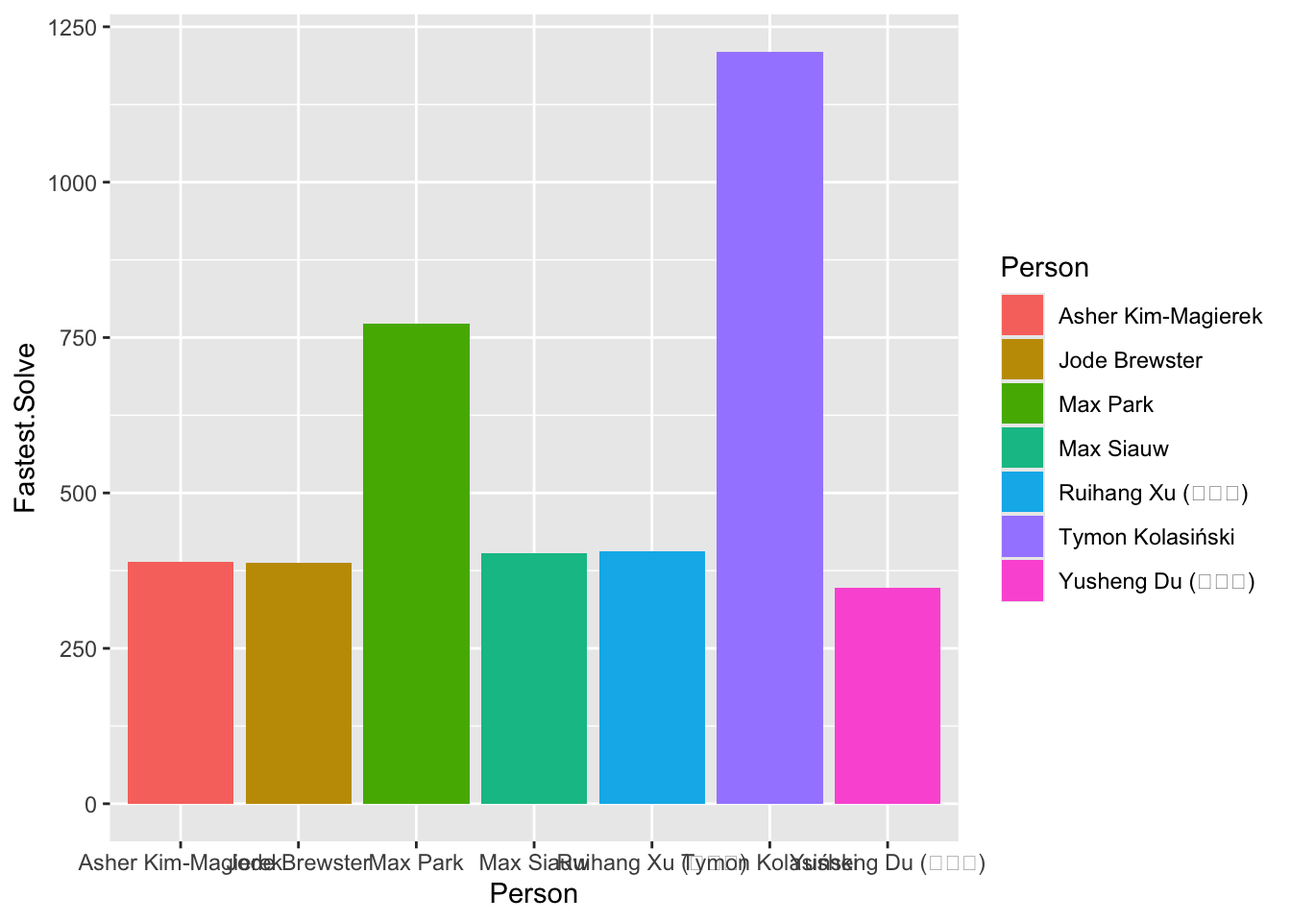
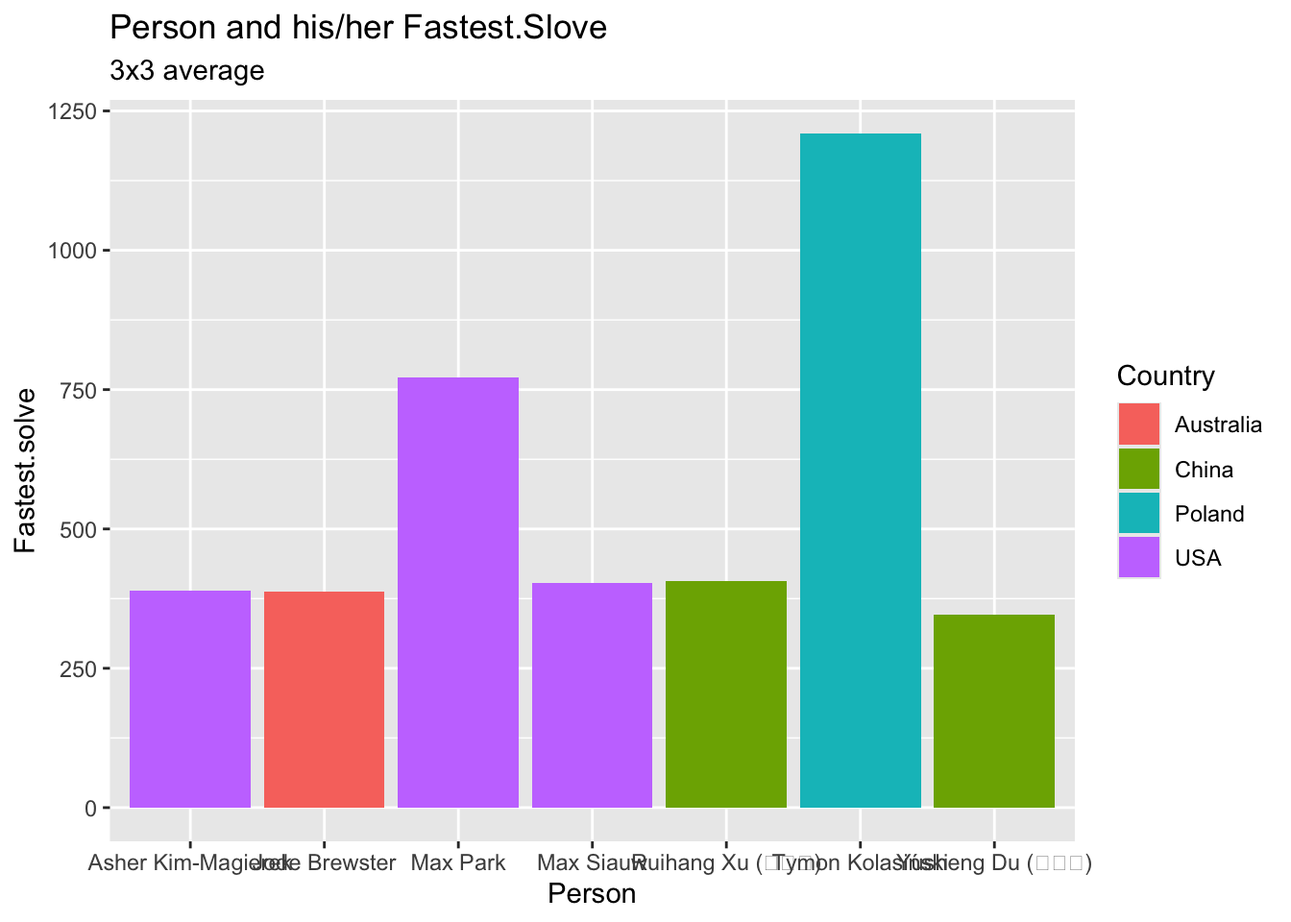
Built site for gh-pages

diff --git a/analysis.html b/analysis.html
@@ -186,13 +186,274 @@ pre > code.sourceCode > span > a:first-child::before { text-decoration: underlin
 <div class="sourceCode cell-code" id="cb4"><pre class="sourceCode r code-with-copy"><code class="sourceCode r"><span id="cb4-1"><a href="#cb4-1" aria-hidden="true" tabindex="-1"></a>data2 <span class="ot">&lt;-</span> <span class="fu">head</span>(data, <span class="at">n =</span> <span class="dv">10</span>)</span>
 <span id="cb4-2"><a href="#cb4-2" aria-hidden="true" tabindex="-1"></a></span>
 <span id="cb4-3"><a href="#cb4-3" aria-hidden="true" tabindex="-1"></a></span>
-<span id="cb4-4"><a href="#cb4-4" aria-hidden="true" tabindex="-1"></a>graphic1 <span class="ot">&lt;-</span> <span class="fu">ggplot</span>(data2, <span class="at">mapping =</span> <span class="fu">aes</span>(<span class="at">x=</span>Person,<span class="at">y=</span>Fastest.Solve,<span class="at">fill=</span>Person)) <span class="sc">+</span></span>
+<span id="cb4-4"><a href="#cb4-4" aria-hidden="true" tabindex="-1"></a>graphic1 <span class="ot">&lt;-</span> <span class="fu">ggplot</span>(data2, <span class="at">mapping =</span> <span class="fu">aes</span>(<span class="at">x=</span>Person,<span class="at">y=</span>Fastest.Solve ,<span class="at">fill=</span>Country)) <span class="sc">+</span></span>
 <span id="cb4-5"><a href="#cb4-5" aria-hidden="true" tabindex="-1"></a>  <span class="fu">geom_col</span>()</span>
-<span id="cb4-6"><a href="#cb4-6" aria-hidden="true" tabindex="-1"></a>graphic1</span></code><button title="Copy to Clipboard" class="code-copy-button"><i class="bi"></i></button></pre></div>
+<span id="cb4-6"><a href="#cb4-6" aria-hidden="true" tabindex="-1"></a>graphic1<span class="sc">+</span></span>
+<span id="cb4-7"><a href="#cb4-7" aria-hidden="true" tabindex="-1"></a>  <span class="fu">labs</span>(<span class="at">title=</span><span class="st">"Person and his/her Fastest.Slove"</span>,</span>
+<span id="cb4-8"><a href="#cb4-8" aria-hidden="true" tabindex="-1"></a>       <span class="at">subtitle=</span><span class="st">"3x3 average"</span>,</span>
+<span id="cb4-9"><a href="#cb4-9" aria-hidden="true" tabindex="-1"></a>       <span class="at">x=</span><span class="st">"Person"</span>,</span>
+<span id="cb4-10"><a href="#cb4-10" aria-hidden="true" tabindex="-1"></a>       <span class="at">y=</span><span class="st">"Fastest.solve"</span></span>
+<span id="cb4-11"><a href="#cb4-11" aria-hidden="true" tabindex="-1"></a>       )</span></code><button title="Copy to Clipboard" class="code-copy-button"><i class="bi"></i></button></pre></div>
 <div class="cell-output-display">
 <div>
 <figure class="figure">
 <p><img src="analysis_files/figure-html/graphic1-1.png" class="img-fluid figure-img" width="672"></p>
+</figure>
+</div>
+</div>
+</div>
+<div class="cell">
+<div class="sourceCode cell-code" id="cb5"><pre class="sourceCode r code-with-copy"><code class="sourceCode r"><span id="cb5-1"><a href="#cb5-1" aria-hidden="true" tabindex="-1"></a>data3 <span class="ot">&lt;-</span> data <span class="sc">%&gt;%</span></span>
+<span id="cb5-2"><a href="#cb5-2" aria-hidden="true" tabindex="-1"></a>  <span class="fu">filter</span>(Country <span class="sc">==</span> <span class="fu">c</span>(<span class="st">"USA"</span>,<span class="st">"Canada"</span>))</span>
+<span id="cb5-3"><a href="#cb5-3" aria-hidden="true" tabindex="-1"></a></span>
+<span id="cb5-4"><a href="#cb5-4" aria-hidden="true" tabindex="-1"></a></span>
+<span id="cb5-5"><a href="#cb5-5" aria-hidden="true" tabindex="-1"></a>graphic2 <span class="ot">&lt;-</span> <span class="fu">ggplot</span>(data3,<span class="at">mapping =</span> <span class="fu">aes</span>(<span class="at">x=</span>Fastest.Solve,<span class="at">color =</span> Country, <span class="at">fill =</span> Country)) <span class="sc">+</span></span>
+<span id="cb5-6"><a href="#cb5-6" aria-hidden="true" tabindex="-1"></a>  <span class="fu">geom_density</span>(<span class="at">linewidth =</span> <span class="fl">0.75</span>, <span class="at">alpha =</span> <span class="fl">0.007</span>)</span>
+<span id="cb5-7"><a href="#cb5-7" aria-hidden="true" tabindex="-1"></a></span>
+<span id="cb5-8"><a href="#cb5-8" aria-hidden="true" tabindex="-1"></a>graphic2<span class="sc">+</span></span>
+<span id="cb5-9"><a href="#cb5-9" aria-hidden="true" tabindex="-1"></a> <span class="fu">labs</span>(<span class="at">title=</span><span class="st">"North America"</span>,</span>
+<span id="cb5-10"><a href="#cb5-10" aria-hidden="true" tabindex="-1"></a>       <span class="at">subtitle=</span><span class="st">"3x3 average"</span>,</span>
+<span id="cb5-11"><a href="#cb5-11" aria-hidden="true" tabindex="-1"></a>       <span class="at">x=</span><span class="st">"Fastest Solve"</span>,</span>
+<span id="cb5-12"><a href="#cb5-12" aria-hidden="true" tabindex="-1"></a>       <span class="at">y=</span><span class="st">"Frequency"</span>,</span>
+<span id="cb5-13"><a href="#cb5-13" aria-hidden="true" tabindex="-1"></a>      <span class="at">caption =</span> <span class="st">"Countries with less than 2 observations not included."</span></span>
+<span id="cb5-14"><a href="#cb5-14" aria-hidden="true" tabindex="-1"></a>       )</span></code><button title="Copy to Clipboard" class="code-copy-button"><i class="bi"></i></button></pre></div>
+<div class="cell-output-display">
+<div>
+<figure class="figure">
+<p><img src="analysis_files/figure-html/graphic2-1.png" class="img-fluid figure-img" width="672"></p>
+</figure>
+</div>
+</div>
+</div>
+<div class="cell">
+<div class="sourceCode cell-code" id="cb6"><pre class="sourceCode r code-with-copy"><code class="sourceCode r"><span id="cb6-1"><a href="#cb6-1" aria-hidden="true" tabindex="-1"></a>data4 <span class="ot">&lt;-</span> data <span class="sc">%&gt;%</span></span>
+<span id="cb6-2"><a href="#cb6-2" aria-hidden="true" tabindex="-1"></a>  <span class="fu">filter</span>(Country <span class="sc">==</span> <span class="fu">c</span>(<span class="st">"Brazil"</span>,<span class="st">"Argentina"</span>))</span>
+<span id="cb6-3"><a href="#cb6-3" aria-hidden="true" tabindex="-1"></a></span>
+<span id="cb6-4"><a href="#cb6-4" aria-hidden="true" tabindex="-1"></a></span>
+<span id="cb6-5"><a href="#cb6-5" aria-hidden="true" tabindex="-1"></a>graphic3<span class="ot">&lt;-</span> <span class="fu">ggplot</span>(data4,<span class="at">mapping =</span> <span class="fu">aes</span>(<span class="at">x=</span>Fastest.Solve,<span class="at">color =</span> Country, <span class="at">fill =</span> Country)) <span class="sc">+</span></span>
+<span id="cb6-6"><a href="#cb6-6" aria-hidden="true" tabindex="-1"></a>  <span class="fu">geom_density</span>(<span class="at">linewidth =</span> <span class="fl">0.75</span>, <span class="at">alpha =</span><span class="fl">0.007</span>)</span>
+<span id="cb6-7"><a href="#cb6-7" aria-hidden="true" tabindex="-1"></a></span>
+<span id="cb6-8"><a href="#cb6-8" aria-hidden="true" tabindex="-1"></a>graphic3<span class="sc">+</span></span>
+<span id="cb6-9"><a href="#cb6-9" aria-hidden="true" tabindex="-1"></a> <span class="fu">labs</span>(<span class="at">title=</span><span class="st">"South America"</span>,</span>
+<span id="cb6-10"><a href="#cb6-10" aria-hidden="true" tabindex="-1"></a>       <span class="at">subtitle=</span><span class="st">"3x3 average"</span>,</span>
+<span id="cb6-11"><a href="#cb6-11" aria-hidden="true" tabindex="-1"></a>       <span class="at">x=</span><span class="st">"Fastest Solve"</span>,</span>
+<span id="cb6-12"><a href="#cb6-12" aria-hidden="true" tabindex="-1"></a>       <span class="at">y=</span><span class="st">"Frequency"</span>,</span>
+<span id="cb6-13"><a href="#cb6-13" aria-hidden="true" tabindex="-1"></a>       <span class="at">caption =</span> <span class="st">"Countries with less than 2 observations not included."</span></span>
+<span id="cb6-14"><a href="#cb6-14" aria-hidden="true" tabindex="-1"></a>       )</span></code><button title="Copy to Clipboard" class="code-copy-button"><i class="bi"></i></button></pre></div>
+<div class="cell-output-display">
+<div>
+<figure class="figure">
+<p><img src="analysis_files/figure-html/graplic3-1.png" class="img-fluid figure-img" width="672"></p>
+</figure>
+</div>
+</div>
+</div>
+<div class="cell">
+<div class="sourceCode cell-code" id="cb7"><pre class="sourceCode r code-with-copy"><code class="sourceCode r"><span id="cb7-1"><a href="#cb7-1" aria-hidden="true" tabindex="-1"></a>data5 <span class="ot">&lt;-</span> data <span class="sc">%&gt;%</span></span>
+<span id="cb7-2"><a href="#cb7-2" aria-hidden="true" tabindex="-1"></a>  <span class="fu">filter</span>(Country <span class="sc">==</span> <span class="fu">c</span>(<span class="st">"Australia"</span> ))</span>
+<span id="cb7-3"><a href="#cb7-3" aria-hidden="true" tabindex="-1"></a></span>
+<span id="cb7-4"><a href="#cb7-4" aria-hidden="true" tabindex="-1"></a></span>
+<span id="cb7-5"><a href="#cb7-5" aria-hidden="true" tabindex="-1"></a></span>
+<span id="cb7-6"><a href="#cb7-6" aria-hidden="true" tabindex="-1"></a>graphic4<span class="ot">&lt;-</span> <span class="fu">ggplot</span>(data5,<span class="at">mapping =</span> <span class="fu">aes</span>(<span class="at">x=</span>Fastest.Solve,<span class="at">color =</span> Country, <span class="at">fill =</span> Country)) <span class="sc">+</span></span>
+<span id="cb7-7"><a href="#cb7-7" aria-hidden="true" tabindex="-1"></a>  <span class="fu">geom_density</span>(<span class="at">linewidth =</span> <span class="fl">0.75</span>, <span class="at">alpha =</span> <span class="fl">0.007</span>)</span>
+<span id="cb7-8"><a href="#cb7-8" aria-hidden="true" tabindex="-1"></a></span>
+<span id="cb7-9"><a href="#cb7-9" aria-hidden="true" tabindex="-1"></a>graphic4<span class="sc">+</span></span>
+<span id="cb7-10"><a href="#cb7-10" aria-hidden="true" tabindex="-1"></a> <span class="fu">labs</span>(<span class="at">title=</span><span class="st">"Australia"</span>,</span>
+<span id="cb7-11"><a href="#cb7-11" aria-hidden="true" tabindex="-1"></a>       <span class="at">subtitle=</span><span class="st">"3x3 average"</span>,</span>
+<span id="cb7-12"><a href="#cb7-12" aria-hidden="true" tabindex="-1"></a>       <span class="at">x=</span><span class="st">"Fastest Solve"</span>,</span>
+<span id="cb7-13"><a href="#cb7-13" aria-hidden="true" tabindex="-1"></a>       <span class="at">y=</span><span class="st">"Frequency"</span>,</span>
+<span id="cb7-14"><a href="#cb7-14" aria-hidden="true" tabindex="-1"></a>      <span class="at">caption =</span> <span class="st">"Countries with less than 2 observations not included."</span></span>
+<span id="cb7-15"><a href="#cb7-15" aria-hidden="true" tabindex="-1"></a></span>
+<span id="cb7-16"><a href="#cb7-16" aria-hidden="true" tabindex="-1"></a>       )</span></code><button title="Copy to Clipboard" class="code-copy-button"><i class="bi"></i></button></pre></div>
+<div class="cell-output-display">
+<div>
+<figure class="figure">
+<p><img src="analysis_files/figure-html/graphic4-1.png" class="img-fluid figure-img" width="672"></p>
+</figure>
+</div>
+</div>
+</div>
+<div class="cell">
+<div class="sourceCode cell-code" id="cb8"><pre class="sourceCode r code-with-copy"><code class="sourceCode r"><span id="cb8-1"><a href="#cb8-1" aria-hidden="true" tabindex="-1"></a>data6 <span class="ot">&lt;-</span> data <span class="sc">%&gt;%</span></span>
+<span id="cb8-2"><a href="#cb8-2" aria-hidden="true" tabindex="-1"></a>  <span class="fu">filter</span>(Country <span class="sc">==</span> <span class="fu">c</span>(<span class="st">"China"</span>,<span class="st">"Philippines"</span>,<span class="st">"Taiwan"</span> ))</span></code><button title="Copy to Clipboard" class="code-copy-button"><i class="bi"></i></button></pre></div>
+<div class="cell-output cell-output-stderr">
+<pre><code>Warning: There was 1 warning in `filter()`.
+ℹ In argument: `Country == c("China", "Philippines", "Taiwan")`.
+Caused by warning in `Country == c("China", "Philippines", "Taiwan")`:
+! longer object length is not a multiple of shorter object length</code></pre>
+</div>
+<div class="sourceCode cell-code" id="cb10"><pre class="sourceCode r code-with-copy"><code class="sourceCode r"><span id="cb10-1"><a href="#cb10-1" aria-hidden="true" tabindex="-1"></a>graphic5<span class="ot">&lt;-</span> <span class="fu">ggplot</span>(data6,<span class="at">mapping =</span> <span class="fu">aes</span>(<span class="at">x=</span>Fastest.Solve,<span class="at">color =</span> Country, <span class="at">fill =</span> Country)) <span class="sc">+</span></span>
+<span id="cb10-2"><a href="#cb10-2" aria-hidden="true" tabindex="-1"></a>  <span class="fu">geom_density</span>(<span class="at">linewidth =</span> <span class="fl">0.75</span>, <span class="at">alpha =</span> <span class="fl">0.007</span>)</span>
+<span id="cb10-3"><a href="#cb10-3" aria-hidden="true" tabindex="-1"></a></span>
+<span id="cb10-4"><a href="#cb10-4" aria-hidden="true" tabindex="-1"></a></span>
+<span id="cb10-5"><a href="#cb10-5" aria-hidden="true" tabindex="-1"></a>graphic5<span class="sc">+</span></span>
+<span id="cb10-6"><a href="#cb10-6" aria-hidden="true" tabindex="-1"></a> <span class="fu">labs</span>(<span class="at">title=</span><span class="st">"</span></span>
+<span id="cb10-7"><a href="#cb10-7" aria-hidden="true" tabindex="-1"></a><span class="st">Asia"</span>,</span>
+<span id="cb10-8"><a href="#cb10-8" aria-hidden="true" tabindex="-1"></a>       <span class="at">subtitle=</span><span class="st">"3x3 average"</span>,</span>
+<span id="cb10-9"><a href="#cb10-9" aria-hidden="true" tabindex="-1"></a>       <span class="at">x=</span><span class="st">"Fastest Solve"</span>,</span>
+<span id="cb10-10"><a href="#cb10-10" aria-hidden="true" tabindex="-1"></a>       <span class="at">y=</span><span class="st">"Frequency"</span></span>
+<span id="cb10-11"><a href="#cb10-11" aria-hidden="true" tabindex="-1"></a>       )</span></code><button title="Copy to Clipboard" class="code-copy-button"><i class="bi"></i></button></pre></div>
+<div class="cell-output-display">
+<div>
+<figure class="figure">
+<p><img src="analysis_files/figure-html/graphic5-1.png" class="img-fluid figure-img" width="672"></p>
+</figure>
+</div>
+</div>
+</div>
+<div class="cell">
+<div class="sourceCode cell-code" id="cb11"><pre class="sourceCode r code-with-copy"><code class="sourceCode r"><span id="cb11-1"><a href="#cb11-1" aria-hidden="true" tabindex="-1"></a>data7 <span class="ot">&lt;-</span> data <span class="sc">%&gt;%</span></span>
+<span id="cb11-2"><a href="#cb11-2" aria-hidden="true" tabindex="-1"></a>  <span class="fu">filter</span>(Country <span class="sc">==</span> <span class="fu">c</span>( <span class="st">"Denmark"</span>,<span class="st">"Netherlands"</span>,<span class="st">"Poland"</span>))</span></code><button title="Copy to Clipboard" class="code-copy-button"><i class="bi"></i></button></pre></div>
+<div class="cell-output cell-output-stderr">
+<pre><code>Warning: There was 1 warning in `filter()`.
+ℹ In argument: `Country == c("Denmark", "Netherlands", "Poland")`.
+Caused by warning in `Country == c("Denmark", "Netherlands", "Poland")`:
+! longer object length is not a multiple of shorter object length</code></pre>
+</div>
+<div class="sourceCode cell-code" id="cb13"><pre class="sourceCode r code-with-copy"><code class="sourceCode r"><span id="cb13-1"><a href="#cb13-1" aria-hidden="true" tabindex="-1"></a>graphic6<span class="ot">&lt;-</span> <span class="fu">ggplot</span>(data7,<span class="at">mapping =</span> <span class="fu">aes</span>(<span class="at">x=</span>Fastest.Solve,<span class="at">color =</span> Country, <span class="at">fill =</span> Country)) <span class="sc">+</span></span>
+<span id="cb13-2"><a href="#cb13-2" aria-hidden="true" tabindex="-1"></a>  <span class="fu">geom_density</span>(<span class="at">linewidth =</span> <span class="fl">0.75</span>, <span class="at">alpha =</span> <span class="fl">0.007</span>)</span>
+<span id="cb13-3"><a href="#cb13-3" aria-hidden="true" tabindex="-1"></a></span>
+<span id="cb13-4"><a href="#cb13-4" aria-hidden="true" tabindex="-1"></a>graphic6<span class="sc">+</span></span>
+<span id="cb13-5"><a href="#cb13-5" aria-hidden="true" tabindex="-1"></a> <span class="fu">labs</span>(<span class="at">title=</span><span class="st">"</span></span>
+<span id="cb13-6"><a href="#cb13-6" aria-hidden="true" tabindex="-1"></a><span class="st">"</span>,</span>
+<span id="cb13-7"><a href="#cb13-7" aria-hidden="true" tabindex="-1"></a>       <span class="at">subtitle=</span><span class="st">"3x3 average"</span>,</span>
+<span id="cb13-8"><a href="#cb13-8" aria-hidden="true" tabindex="-1"></a>       <span class="at">x=</span><span class="st">"Fastest Solve"</span>,</span>
+<span id="cb13-9"><a href="#cb13-9" aria-hidden="true" tabindex="-1"></a>       <span class="at">y=</span><span class="st">"Frequency"</span></span>
+<span id="cb13-10"><a href="#cb13-10" aria-hidden="true" tabindex="-1"></a>       )</span></code><button title="Copy to Clipboard" class="code-copy-button"><i class="bi"></i></button></pre></div>
+<div class="cell-output-display">
+<div>
+<figure class="figure">
+<p><img src="analysis_files/figure-html/graphic6-1.png" class="img-fluid figure-img" width="672"></p>
+</figure>
+</div>
+</div>
+</div>
+<div class="cell">
+<div class="sourceCode cell-code" id="cb14"><pre class="sourceCode r code-with-copy"><code class="sourceCode r"><span id="cb14-1"><a href="#cb14-1" aria-hidden="true" tabindex="-1"></a>data8<span class="ot">&lt;-</span> data</span>
+<span id="cb14-2"><a href="#cb14-2" aria-hidden="true" tabindex="-1"></a></span>
+<span id="cb14-3"><a href="#cb14-3" aria-hidden="true" tabindex="-1"></a></span>
+<span id="cb14-4"><a href="#cb14-4" aria-hidden="true" tabindex="-1"></a>graphic7 <span class="ot">&lt;-</span> <span class="fu">ggplot</span>(data8, <span class="at">mapping =</span> <span class="fu">aes</span>(<span class="at">x=</span>Country,<span class="at">y=</span>Fastest.Solve )) <span class="sc">+</span></span>
+<span id="cb14-5"><a href="#cb14-5" aria-hidden="true" tabindex="-1"></a>  <span class="fu">geom_col</span>()</span>
+<span id="cb14-6"><a href="#cb14-6" aria-hidden="true" tabindex="-1"></a>graphic7<span class="sc">+</span></span>
+<span id="cb14-7"><a href="#cb14-7" aria-hidden="true" tabindex="-1"></a>  <span class="fu">labs</span>(<span class="at">title=</span><span class="st">"Person and his/her Fastest.Slove"</span>,</span>
+<span id="cb14-8"><a href="#cb14-8" aria-hidden="true" tabindex="-1"></a>       <span class="at">subtitle=</span><span class="st">"3x3 average"</span>,</span>
+<span id="cb14-9"><a href="#cb14-9" aria-hidden="true" tabindex="-1"></a>       <span class="at">x=</span><span class="st">"Person"</span>,</span>
+<span id="cb14-10"><a href="#cb14-10" aria-hidden="true" tabindex="-1"></a>       <span class="at">y=</span><span class="st">"Fastest.solve"</span></span>
+<span id="cb14-11"><a href="#cb14-11" aria-hidden="true" tabindex="-1"></a>       )</span></code><button title="Copy to Clipboard" class="code-copy-button"><i class="bi"></i></button></pre></div>
+<div class="cell-output-display">
+<div>
+<figure class="figure">
+<p><img src="analysis_files/figure-html/graphic7-1.png" class="img-fluid figure-img" width="672"></p>
+</figure>
+</div>
+</div>
+</div>
+<div class="cell">
+<div class="sourceCode cell-code" id="cb15"><pre class="sourceCode r code-with-copy"><code class="sourceCode r"><span id="cb15-1"><a href="#cb15-1" aria-hidden="true" tabindex="-1"></a><span class="fu">library</span>(dplyr)</span>
+<span id="cb15-2"><a href="#cb15-2" aria-hidden="true" tabindex="-1"></a><span class="fu">library</span>(stringr)</span>
+<span id="cb15-3"><a href="#cb15-3" aria-hidden="true" tabindex="-1"></a><span class="fu">library</span>(ggplot2)</span>
+<span id="cb15-4"><a href="#cb15-4" aria-hidden="true" tabindex="-1"></a><span class="fu">library</span>(maps)</span></code><button title="Copy to Clipboard" class="code-copy-button"><i class="bi"></i></button></pre></div>
+<div class="cell-output cell-output-stderr">
+<pre><code>
+Attaching package: 'maps'</code></pre>
+</div>
+<div class="cell-output cell-output-stderr">
+<pre><code>The following object is masked from 'package:purrr':
+
+    map</code></pre>
+</div>
+<div class="sourceCode cell-code" id="cb18"><pre class="sourceCode r code-with-copy"><code class="sourceCode r"><span id="cb18-1"><a href="#cb18-1" aria-hidden="true" tabindex="-1"></a>world <span class="ot">&lt;-</span> <span class="fu">map_data</span>(<span class="st">"world"</span>)</span>
+<span id="cb18-2"><a href="#cb18-2" aria-hidden="true" tabindex="-1"></a><span class="fu">head</span>(world)</span></code><button title="Copy to Clipboard" class="code-copy-button"><i class="bi"></i></button></pre></div>
+<div class="cell-output cell-output-stdout">
+<pre><code>       long      lat group order region subregion
+1 -69.89912 12.45200     1     1  Aruba      &lt;NA&gt;
+2 -69.89571 12.42300     1     2  Aruba      &lt;NA&gt;
+3 -69.94219 12.43853     1     3  Aruba      &lt;NA&gt;
+4 -70.00415 12.50049     1     4  Aruba      &lt;NA&gt;
+5 -70.06612 12.54697     1     5  Aruba      &lt;NA&gt;
+6 -70.05088 12.59707     1     6  Aruba      &lt;NA&gt;</code></pre>
+</div>
+<div class="sourceCode cell-code" id="cb20"><pre class="sourceCode r code-with-copy"><code class="sourceCode r"><span id="cb20-1"><a href="#cb20-1" aria-hidden="true" tabindex="-1"></a><span class="do">##        long      lat group order region subregion</span></span>
+<span id="cb20-2"><a href="#cb20-2" aria-hidden="true" tabindex="-1"></a><span class="do">## 1 -69.89912 12.45200     1     1  Aruba      &lt;NA&gt;</span></span>
+<span id="cb20-3"><a href="#cb20-3" aria-hidden="true" tabindex="-1"></a><span class="do">## 2 -69.89571 12.42300     1     2  Aruba      &lt;NA&gt;</span></span>
+<span id="cb20-4"><a href="#cb20-4" aria-hidden="true" tabindex="-1"></a><span class="do">## 3 -69.94219 12.43853     1     3  Aruba      &lt;NA&gt;</span></span>
+<span id="cb20-5"><a href="#cb20-5" aria-hidden="true" tabindex="-1"></a><span class="do">## 4 -70.00415 12.50049     1     4  Aruba      &lt;NA&gt;</span></span>
+<span id="cb20-6"><a href="#cb20-6" aria-hidden="true" tabindex="-1"></a><span class="do">## 5 -70.06612 12.54697     1     5  Aruba      &lt;NA&gt;</span></span>
+<span id="cb20-7"><a href="#cb20-7" aria-hidden="true" tabindex="-1"></a><span class="do">## 6 -70.05088 12.59707     1     6  Aruba      &lt;NA&gt;</span></span>
+<span id="cb20-8"><a href="#cb20-8" aria-hidden="true" tabindex="-1"></a></span>
+<span id="cb20-9"><a href="#cb20-9" aria-hidden="true" tabindex="-1"></a>world <span class="ot">&lt;-</span> <span class="fu">map_data</span>(<span class="st">"world"</span>)</span>
+<span id="cb20-10"><a href="#cb20-10" aria-hidden="true" tabindex="-1"></a>worldplot <span class="ot">&lt;-</span> <span class="fu">ggplot</span>() <span class="sc">+</span></span>
+<span id="cb20-11"><a href="#cb20-11" aria-hidden="true" tabindex="-1"></a>  <span class="fu">geom_polygon</span>(<span class="at">data =</span> world, <span class="fu">aes</span>(<span class="at">x=</span>long, <span class="at">y =</span> lat, <span class="at">group =</span> group)) <span class="sc">+</span> </span>
+<span id="cb20-12"><a href="#cb20-12" aria-hidden="true" tabindex="-1"></a>  <span class="fu">coord_fixed</span>(<span class="fl">1.3</span>)</span>
+<span id="cb20-13"><a href="#cb20-13" aria-hidden="true" tabindex="-1"></a></span>
+<span id="cb20-14"><a href="#cb20-14" aria-hidden="true" tabindex="-1"></a>map_data <span class="ot">&lt;-</span> <span class="fu">read.csv</span>(<span class="st">"solves.csv"</span>, <span class="at">header =</span> <span class="cn">TRUE</span>)</span>
+<span id="cb20-15"><a href="#cb20-15" aria-hidden="true" tabindex="-1"></a>map_data <span class="ot">&lt;-</span> map_data <span class="sc">%&gt;%</span></span>
+<span id="cb20-16"><a href="#cb20-16" aria-hidden="true" tabindex="-1"></a>  <span class="fu">mutate</span>(<span class="at">region =</span> Country)</span>
+<span id="cb20-17"><a href="#cb20-17" aria-hidden="true" tabindex="-1"></a></span>
+<span id="cb20-18"><a href="#cb20-18" aria-hidden="true" tabindex="-1"></a>map_data <span class="ot">&lt;-</span> map_data <span class="sc">%&gt;%</span> </span>
+<span id="cb20-19"><a href="#cb20-19" aria-hidden="true" tabindex="-1"></a>   <span class="fu">group_by</span>(region) <span class="sc">%&gt;%</span> </span>
+<span id="cb20-20"><a href="#cb20-20" aria-hidden="true" tabindex="-1"></a>   <span class="fu">slice_min</span>(<span class="at">order_by =</span> Fastest.Solve)</span>
+<span id="cb20-21"><a href="#cb20-21" aria-hidden="true" tabindex="-1"></a></span>
+<span id="cb20-22"><a href="#cb20-22" aria-hidden="true" tabindex="-1"></a></span>
+<span id="cb20-23"><a href="#cb20-23" aria-hidden="true" tabindex="-1"></a></span>
+<span id="cb20-24"><a href="#cb20-24" aria-hidden="true" tabindex="-1"></a><span class="do">## Check for disagreements between the two datasets</span></span>
+<span id="cb20-25"><a href="#cb20-25" aria-hidden="true" tabindex="-1"></a>diff <span class="ot">&lt;-</span> <span class="fu">setdiff</span>(world<span class="sc">$</span>region, map_data<span class="sc">$</span>region)</span>
+<span id="cb20-26"><a href="#cb20-26" aria-hidden="true" tabindex="-1"></a></span>
+<span id="cb20-27"><a href="#cb20-27" aria-hidden="true" tabindex="-1"></a><span class="do">## Korea -&gt; South Korea</span></span>
+<span id="cb20-28"><a href="#cb20-28" aria-hidden="true" tabindex="-1"></a><span class="do">## United Kingdom -&gt; UK</span></span>
+<span id="cb20-29"><a href="#cb20-29" aria-hidden="true" tabindex="-1"></a><span class="do">## </span></span>
+<span id="cb20-30"><a href="#cb20-30" aria-hidden="true" tabindex="-1"></a></span>
+<span id="cb20-31"><a href="#cb20-31" aria-hidden="true" tabindex="-1"></a></span>
+<span id="cb20-32"><a href="#cb20-32" aria-hidden="true" tabindex="-1"></a><span class="do">## Clean the dataset accordingly</span></span>
+<span id="cb20-33"><a href="#cb20-33" aria-hidden="true" tabindex="-1"></a>map_data <span class="ot">&lt;-</span> map_data <span class="sc">%&gt;%</span></span>
+<span id="cb20-34"><a href="#cb20-34" aria-hidden="true" tabindex="-1"></a>  <span class="do">## Recode certain entries</span></span>
+<span id="cb20-35"><a href="#cb20-35" aria-hidden="true" tabindex="-1"></a>  <span class="fu">mutate</span>(<span class="at">region =</span> <span class="fu">recode</span>(<span class="fu">str_trim</span>(region), <span class="st">"United Kingdom"</span> <span class="ot">=</span> <span class="st">"UK"</span>,</span>
+<span id="cb20-36"><a href="#cb20-36" aria-hidden="true" tabindex="-1"></a>                            <span class="st">"Korea"</span> <span class="ot">=</span> <span class="st">"South Korea"</span>,</span>
+<span id="cb20-37"><a href="#cb20-37" aria-hidden="true" tabindex="-1"></a>                            <span class="st">"Congo (Dem. Rep.)"</span> <span class="ot">=</span> <span class="st">"Democratic Republic of the Congo"</span>,</span>
+<span id="cb20-38"><a href="#cb20-38" aria-hidden="true" tabindex="-1"></a>                            <span class="st">"Congo (Rep.)"</span> <span class="ot">=</span> <span class="st">"Republic of Congo"</span>)) </span>
+<span id="cb20-39"><a href="#cb20-39" aria-hidden="true" tabindex="-1"></a></span>
+<span id="cb20-40"><a href="#cb20-40" aria-hidden="true" tabindex="-1"></a>worldSubset <span class="ot">&lt;-</span> <span class="fu">inner_join</span>(world, map_data, <span class="at">by =</span> <span class="st">"region"</span>)</span>
+<span id="cb20-41"><a href="#cb20-41" aria-hidden="true" tabindex="-1"></a><span class="fu">head</span>(worldSubset)</span></code><button title="Copy to Clipboard" class="code-copy-button"><i class="bi"></i></button></pre></div>
+<div class="cell-output cell-output-stdout">
+<pre><code>      long      lat group order  region     subregion  X.       Person Solve.1
+1 20.61133 60.04068     7   884 Finland Aland Islands 156 Amos Nordman     856
+2 20.60342 60.01694     7   885 Finland Aland Islands 156 Amos Nordman     856
+3 20.52178 60.01167     7   886 Finland Aland Islands 156 Amos Nordman     856
+4 20.48750 60.03276     7   887 Finland Aland Islands 156 Amos Nordman     856
+5 20.41123 60.03013     7   888 Finland Aland Islands 156 Amos Nordman     856
+6 20.39795 60.04068     7   889 Finland Aland Islands 156 Amos Nordman     856
+  Solve.2 Solve.3 Solve.4 Solve.5 Fastest.Solve Country
+1     963     838     911     480           480 Finland
+2     963     838     911     480           480 Finland
+3     963     838     911     480           480 Finland
+4     963     838     911     480           480 Finland
+5     963     838     911     480           480 Finland
+6     963     838     911     480           480 Finland</code></pre>
+</div>
+<div class="sourceCode cell-code" id="cb22"><pre class="sourceCode r code-with-copy"><code class="sourceCode r"><span id="cb22-1"><a href="#cb22-1" aria-hidden="true" tabindex="-1"></a><span class="do">## Let's ditch many of the unnecessary elements</span></span>
+<span id="cb22-2"><a href="#cb22-2" aria-hidden="true" tabindex="-1"></a>plain <span class="ot">&lt;-</span> <span class="fu">theme</span>(</span>
+<span id="cb22-3"><a href="#cb22-3" aria-hidden="true" tabindex="-1"></a>  <span class="at">axis.text =</span> <span class="fu">element_blank</span>(),</span>
+<span id="cb22-4"><a href="#cb22-4" aria-hidden="true" tabindex="-1"></a>  <span class="at">axis.line =</span> <span class="fu">element_blank</span>(),</span>
+<span id="cb22-5"><a href="#cb22-5" aria-hidden="true" tabindex="-1"></a>  <span class="at">axis.ticks =</span> <span class="fu">element_blank</span>(),</span>
+<span id="cb22-6"><a href="#cb22-6" aria-hidden="true" tabindex="-1"></a>  <span class="at">panel.border =</span> <span class="fu">element_blank</span>(),</span>
+<span id="cb22-7"><a href="#cb22-7" aria-hidden="true" tabindex="-1"></a>  <span class="at">panel.grid =</span> <span class="fu">element_blank</span>(),</span>
+<span id="cb22-8"><a href="#cb22-8" aria-hidden="true" tabindex="-1"></a>  <span class="at">axis.title =</span> <span class="fu">element_blank</span>(),</span>
+<span id="cb22-9"><a href="#cb22-9" aria-hidden="true" tabindex="-1"></a>  <span class="at">panel.background =</span> <span class="fu">element_rect</span>(<span class="at">fill =</span> <span class="st">"white"</span>),</span>
+<span id="cb22-10"><a href="#cb22-10" aria-hidden="true" tabindex="-1"></a>  <span class="at">plot.title =</span> <span class="fu">element_text</span>(<span class="at">hjust =</span> <span class="fl">0.5</span>)</span>
+<span id="cb22-11"><a href="#cb22-11" aria-hidden="true" tabindex="-1"></a>)</span>
+<span id="cb22-12"><a href="#cb22-12" aria-hidden="true" tabindex="-1"></a></span>
+<span id="cb22-13"><a href="#cb22-13" aria-hidden="true" tabindex="-1"></a>solve <span class="ot">&lt;-</span> <span class="fu">ggplot</span>(<span class="at">data =</span> worldSubset, <span class="at">mapping =</span> <span class="fu">aes</span>(<span class="at">x =</span> long, <span class="at">y =</span> lat, <span class="at">group =</span> group)) <span class="sc">+</span> </span>
+<span id="cb22-14"><a href="#cb22-14" aria-hidden="true" tabindex="-1"></a>  <span class="fu">coord_fixed</span>(<span class="fl">1.3</span>) <span class="sc">+</span></span>
+<span id="cb22-15"><a href="#cb22-15" aria-hidden="true" tabindex="-1"></a>  <span class="fu">geom_polygon</span>(<span class="fu">aes</span>(<span class="at">fill =</span> Fastest.Solve)) <span class="sc">+</span></span>
+<span id="cb22-16"><a href="#cb22-16" aria-hidden="true" tabindex="-1"></a>  <span class="fu">scale_fill_distiller</span>(<span class="at">palette =</span><span class="st">"RdBu"</span>, <span class="at">direction =</span> <span class="sc">-</span><span class="dv">1</span>) <span class="sc">+</span> <span class="co"># or direction=1</span></span>
+<span id="cb22-17"><a href="#cb22-17" aria-hidden="true" tabindex="-1"></a>  <span class="fu">ggtitle</span>(<span class="st">"Solves by Country"</span>) <span class="sc">+</span></span>
+<span id="cb22-18"><a href="#cb22-18" aria-hidden="true" tabindex="-1"></a>  plain</span>
+<span id="cb22-19"><a href="#cb22-19" aria-hidden="true" tabindex="-1"></a></span>
+<span id="cb22-20"><a href="#cb22-20" aria-hidden="true" tabindex="-1"></a>solve</span></code><button title="Copy to Clipboard" class="code-copy-button"><i class="bi"></i></button></pre></div>
+<div class="cell-output-display">
+<div>
+<figure class="figure">
+<p><img src="analysis_files/figure-html/unnamed-chunk-2-1.png" class="img-fluid figure-img" width="672"></p>
 </figure>
 </div>
 </div>
